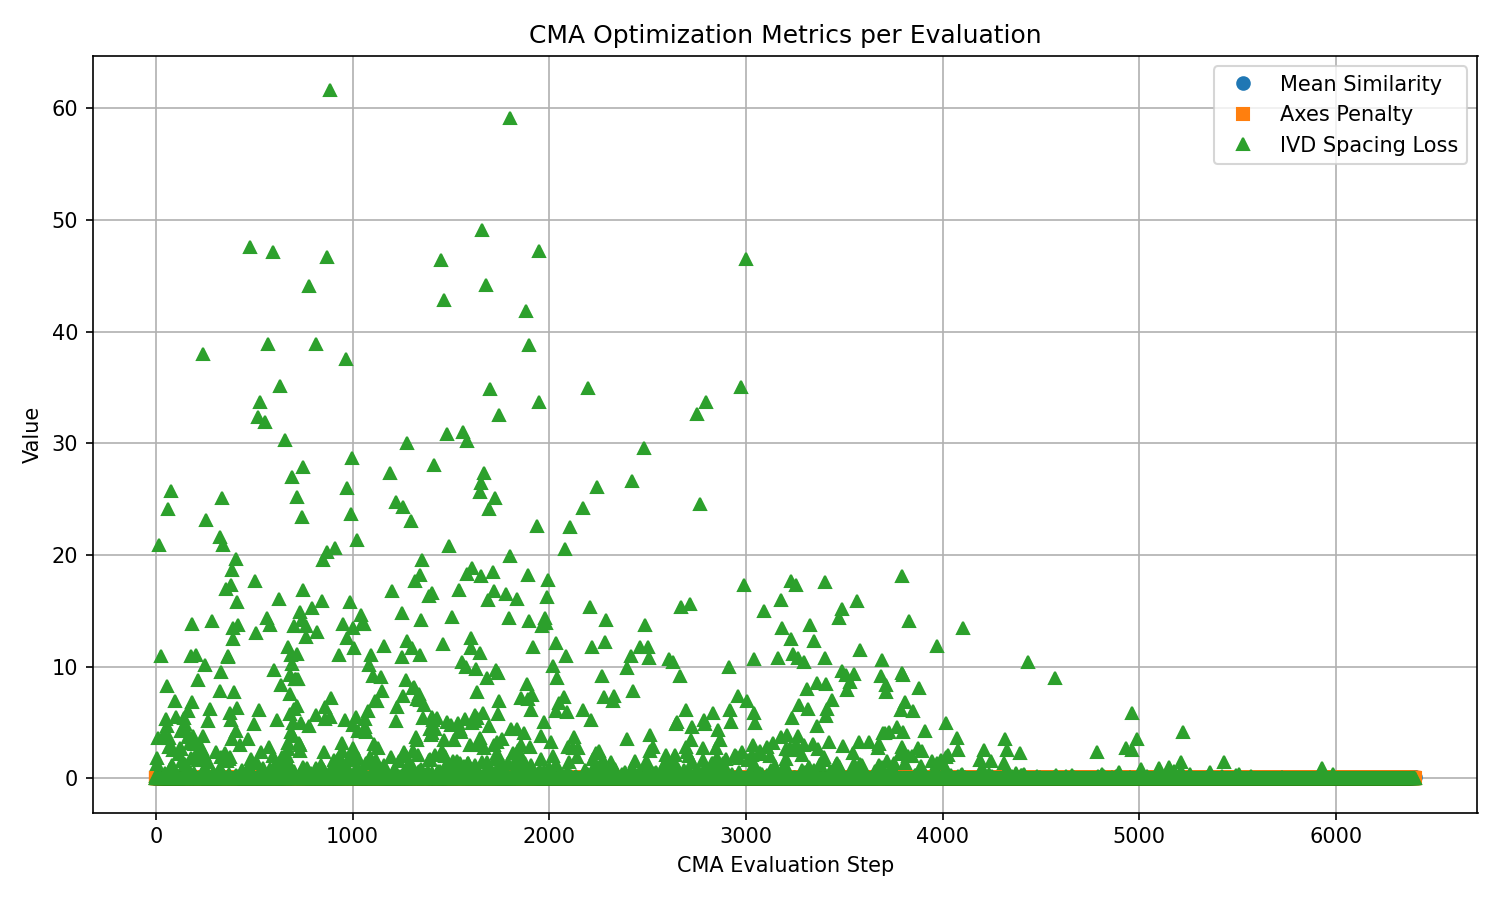
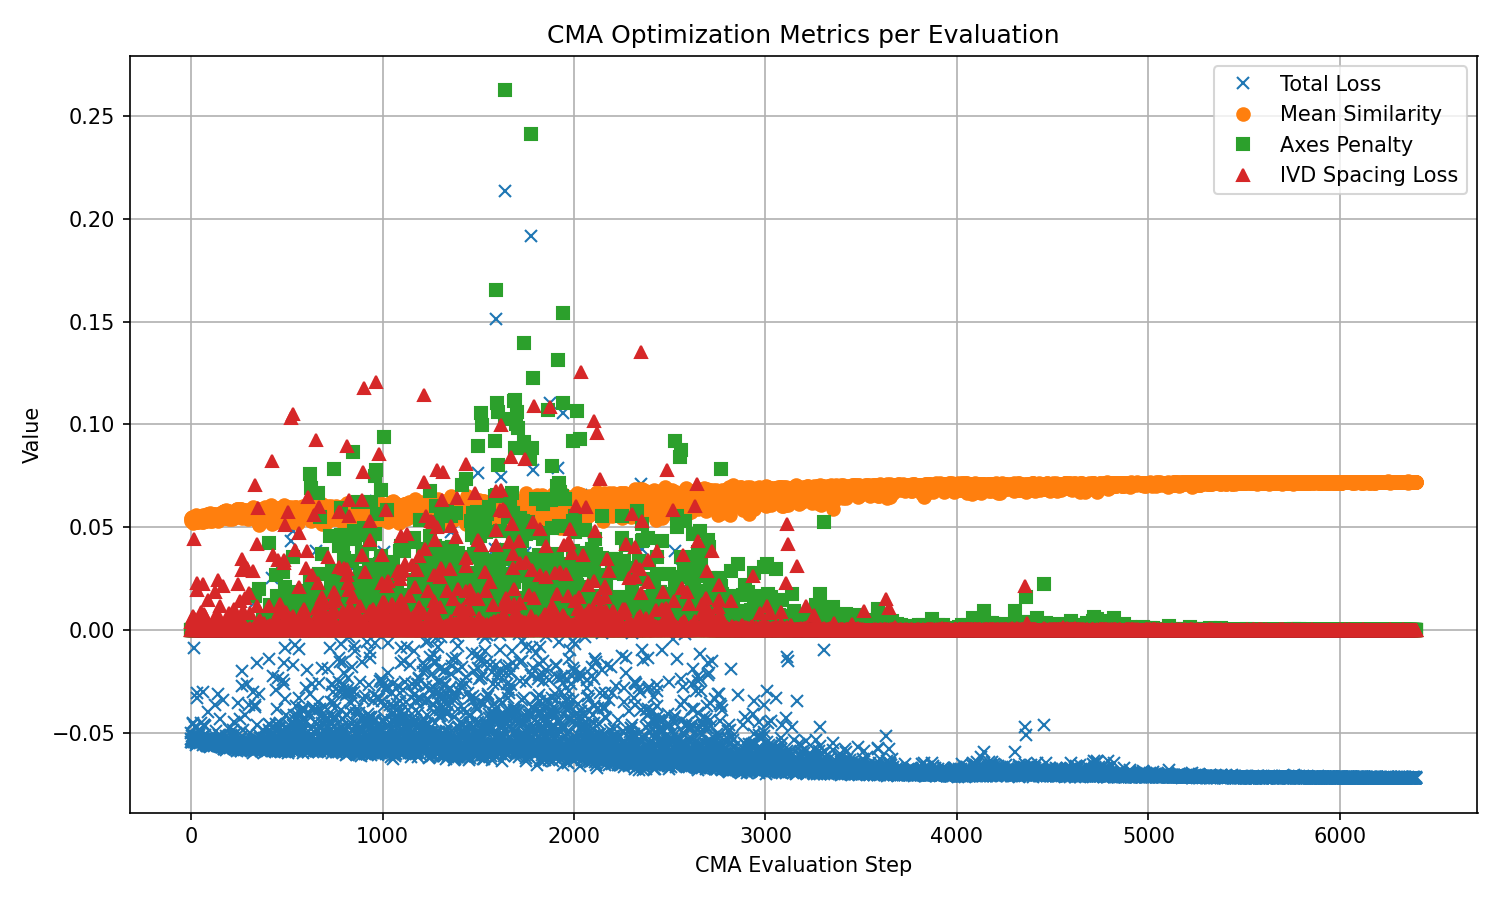
syncing with origin

diff --git a/groupwise_GPU.py b/groupwise_GPU.py
@@ -103,7 +103,7 @@ def evaluate_group_gpu(flat_params, K, centers, sampled_positions_list,
 
 
     # INTER-VERTEBRAL DISPLACEMENT PENALTY
-    lambda_axes = 0.0
+    lambda_axes = 0.01 # 0.01
     axes_margins = { # mm values
         'LM': 3.0,  # STRICT - very little Lateral-Medial sliding
         'AP': 3.0,  # Anterior-Posterior margin Anterior-Posterior
@@ -116,7 +116,7 @@ def evaluate_group_gpu(flat_params, K, centers, sampled_positions_list,
 
 
     # IVD POINT PAIR PENALTY
-    lambda_ivd = 0.5 # weight
+    lambda_ivd = 0.001 # weight
     ivd_loss, ivd_metrics = compute_ivd_collision_loss(pairings, transforms_list, case_names)
 
 
@@ -439,9 +439,9 @@ if __name__ == "__main__":
             print(f"{case}: no landmarks available -> TRE not computed")
         else:
             print()
-            print(f"{case}: TRE = {tre:.4f}")
+            print(f"{case}: TRE = {tre:.1f}")
 
-
+    # loss_arr = np.array(loss_history)
     mean_sim_arr = np.array(mean_sim_history)
     axes_penalty_arr = np.array(axes_penalty_history)
     ivd_loss_arr = np.array(ivd_loss_history) 
@@ -449,10 +449,12 @@ if __name__ == "__main__":
 
 
     # LOSS PLOTTING
-    plt.figure(figsize=(10,6))
+    plt.figure(figsize=(10, 6))
+    # plt.plot(loss_arr, 'x', label='Total Loss', linestyle='None')
     plt.plot(mean_sim_arr, 'o', label='Mean Similarity', linestyle='None')
     plt.plot(axes_penalty_arr, 's', label='Axes Penalty', linestyle='None')
-    plt.plot(ivd_loss_arr, '^', label='IVD Spacing Loss', linestyle='None')  # plot IVD loss
+    plt.plot(ivd_loss_arr, '^', label='IVD Spacing Loss', linestyle='None')
+
     plt.xlabel('CMA Evaluation Step')
     plt.ylabel('Value')
     plt.title('CMA Optimization Metrics per Evaluation')
@@ -461,8 +463,8 @@ if __name__ == "__main__":
     plt.tight_layout()
     plt.savefig("optimization_metrics.png", dpi=150)
     plt.close()
+
     print("Saved optimization_metrics.png in current directory.")
-    print("DONE.")
 
 
     '''

diff --git a/utils/helpers.py b/utils/helpers.py
@@ -59,7 +59,7 @@ def compute_ivd_collision_loss(pairings, transforms_list, case_names):
             mean_spacing_penalty = 0.0
 
         w_collision = 1.0   # CRITICAL - prevent collisions, mayeb try 2?
-        w_mean_spacing = 0.01   # Moderate - maintain anatomy
+        w_mean_spacing = 0.1   # Moderate - maintain anatomy
         
         pair_loss = (
             w_collision * collision_penalty +
